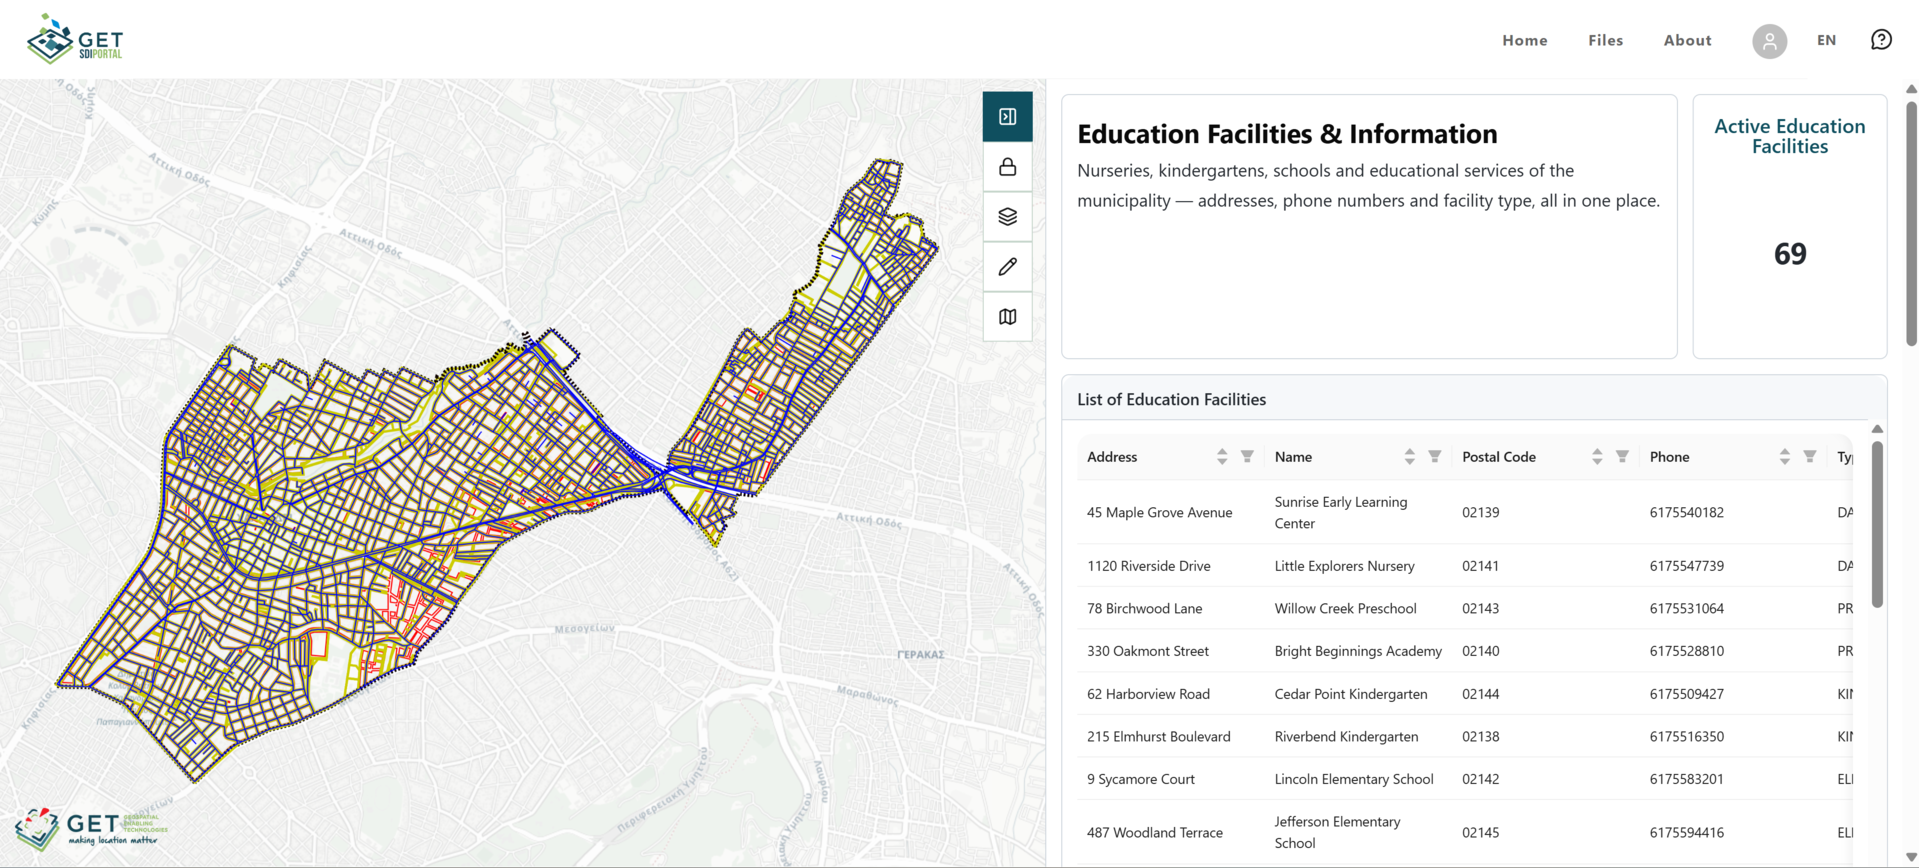
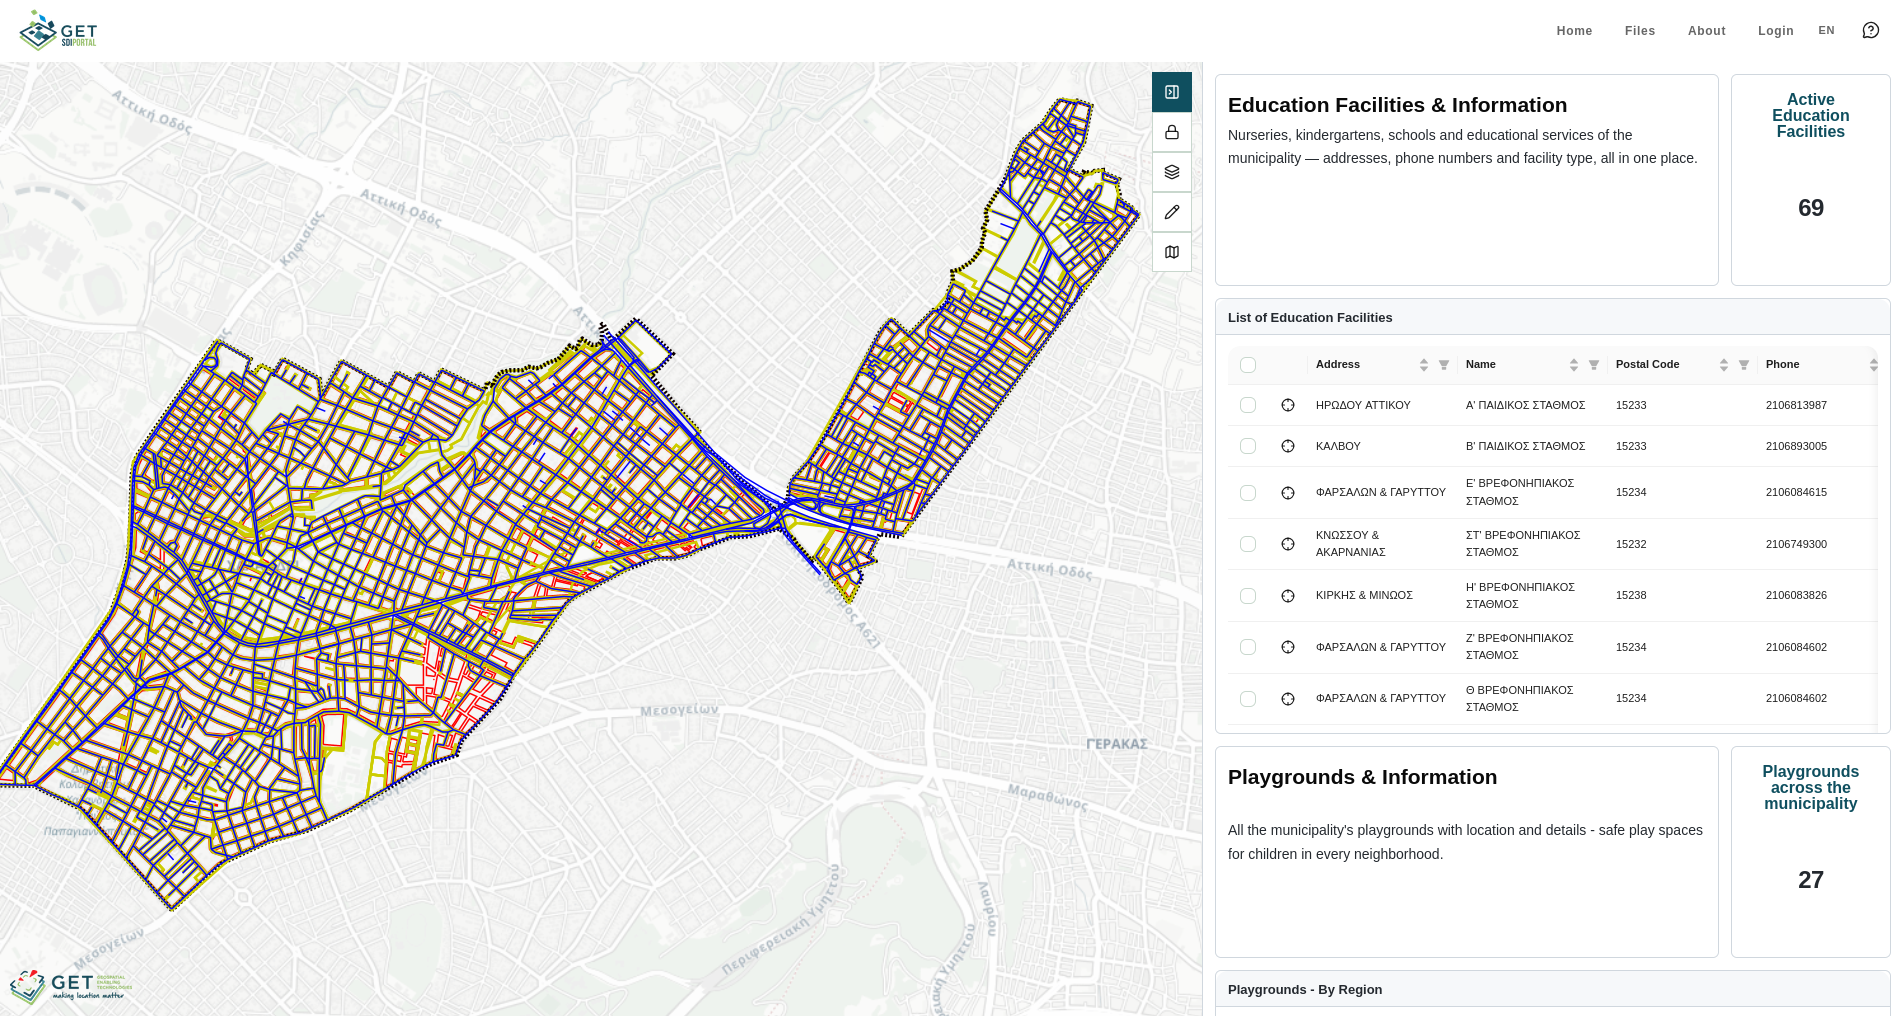
Update map dashboards with chart to map interactions section

diff --git a/docs/dashboard/map-dashboard.md b/docs/dashboard/map-dashboard.md
@@ -8,7 +8,6 @@ Draw a **shape** on the map, and every chart, number and table instantly recalcu
 
 That's the whole idea: instead of reading fixed totals, you get to ask *"what about this area?"* and see the answer immediately.
 
-
 ![Map Dashboard Overview](../assets/images/dashboard-viewer/dashboard-map-overview.png)
 
 ## Moving around the map
@@ -23,11 +22,11 @@ That's the whole idea: instead of reading fixed totals, you get to ask *"what ab
 
 | Button | What it does |
 | :---: | --- |
-| ![Panel Collapse Overview](../assets/icons/panel-right-close.png) | **Collapse Panel**: Hides the chart panel so the map gets the full screen - or brings it back |
-| ![Lock Scroll](../assets/icons/lock.png) | **Scroll Lock**: Turns mouse-wheel zoom on or off. Closed - off (the default) | 
-| ![Layers Overview](../assets/icons/layers.png) | **Layers Overview**: A tick-list of the map's data layers. Untick to hide one, tick to bring it back | 
-| ![Edit Overview](../assets/icons/pencil.png) | **Draw**: Opens the drawing tools - this is the area-filter feature | 
-| ![Basemap Overview](../assets/icons/map.png) | **Basemap Switch**: Switches the background map | 
+| ![Panel Collapse Overview](../assets/icons/panel-right-close.png) | **Collapse Panel**: Hides the chart panel so the map gets the full screen, or brings it back. |
+| ![Lock Scroll](../assets/icons/lock.png) | **Scroll Lock**: Turns mouse-wheel zoom on or off. Closed = off (the default). |
+| ![Layers Overview](../assets/icons/layers.png) | **Layers Overview**: A tick-list of the map's data layers. Untick to hide one, tick to bring it back. |
+| ![Edit Overview](../assets/icons/pencil.png) | **Draw**: Opens the drawing tools, this is the area-filter feature. |
+| ![Basemap Overview](../assets/icons/map.png) | **Basemap Switch**: Switches the background map. |
 
 ## The Drawing Tool
 
@@ -35,15 +34,15 @@ Click Draw and you get four ways to mark an area:
 
 | Tool | How to use it |
 | --- | --- |
-| **Circle** | Click for the centre, drag out, click again to finish |
-| **Polygon** |	Click each corner, double-click the last one to close it |
-| **Square** | Click and drag from one corner to the opposite one |
-| **Lasso** | Hold the mouse down and draw freehand |
-| **Eraser** | Removes the shape and puts every chart back to its full totals |
+| **Circle** | Click for the centre, drag out, click again to finish. |
+| **Polygon** | Click each corner, double-click the last one to close it. |
+| **Square** | Click and drag from one corner to the opposite one. |
+| **Lasso** | Hold the mouse down and draw freehand. |
+| **Eraser** | Removes the shape and puts every chart back to its full totals. |
 
 ### What happens the moment you finish drawing
 
-By default the side panel, shows data based on the whole map.
+By default the side panel shows data based on the whole map.
 
 After you select an area with a shape, every chart in the side panel reloads: the numbers, the bar and pie charts, and the table all recalculate against the records your shape touches. You'll see a brief loading state on each card while this happens.
 
@@ -51,18 +50,29 @@ After you select an area with a shape, every chart in the side panel reloads: th
 
 After drawing a shape, you can move its position by dragging it with the mouse cursor.
 
-If you want to remove the shape drawn, use the **Eraser** to clear the shape from the map, this action will reset the data in charts to the default state.
+If you want to remove the shape drawn, use the **Eraser** to clear the shape from the map. This action will reset the data in charts to the default state.
+
+## Charts and the Map Work Together
+
+The drawing tool is one direction, draw on the map and the charts update. But it works the other way too: interact with a chart and the map responds.
+
+Click a row in a table chart, and the map places a marker at that feature's location, or use the row's pan action to fly straight to it. Click a slice in a pie chart, and every feature in that category lights up on the map with markers. The interaction works across chart types: wherever a chart element corresponds to features on the map, clicking it will show you where those features are.
+
+![Chart Map Interaction](../assets/images/dashboard-viewer/dashboard-map-chart-interaction.gif)
+
+!!! note
+
+    Chart-to-map interactions are visual, they highlight features on the map but don't filter the other charts the way drawing a shape does.
 
 ## The Layers Tool
 
-The layers tool allows you to enable and disable which layers to be visible on the map.
+The layers tool allows you to enable and disable which layers are visible on the map.
 
 ![Layers feature Overview](../assets/images/dashboard-viewer/dashboard-map-layers.gif)
 
 !!! note "Enabling/Disabling Layers"
 
-    This option doesn't change the way data are calculated or shown. Enabling/Disabling layers is only a visual option separate of the shape drawing and calculation methods.
-
+    This option doesn't change the way data are calculated or shown. Enabling/disabling layers is only a visual option, separate from the shape drawing and calculation methods.
 
 ## Basemap Change Tool
 
